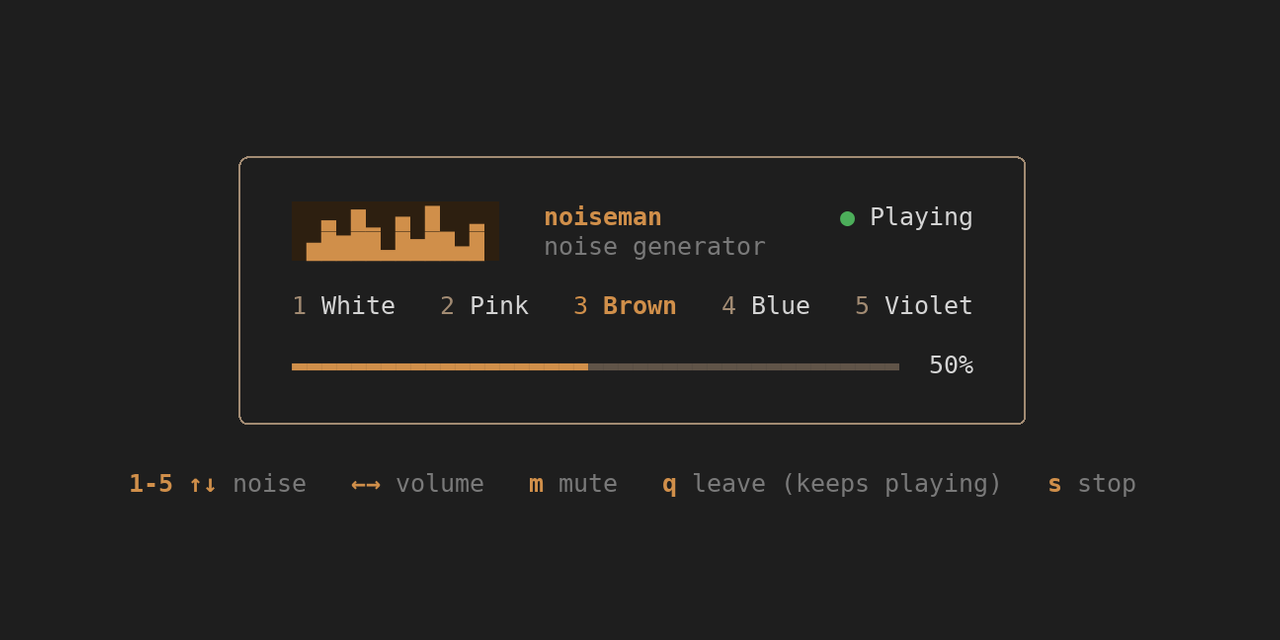
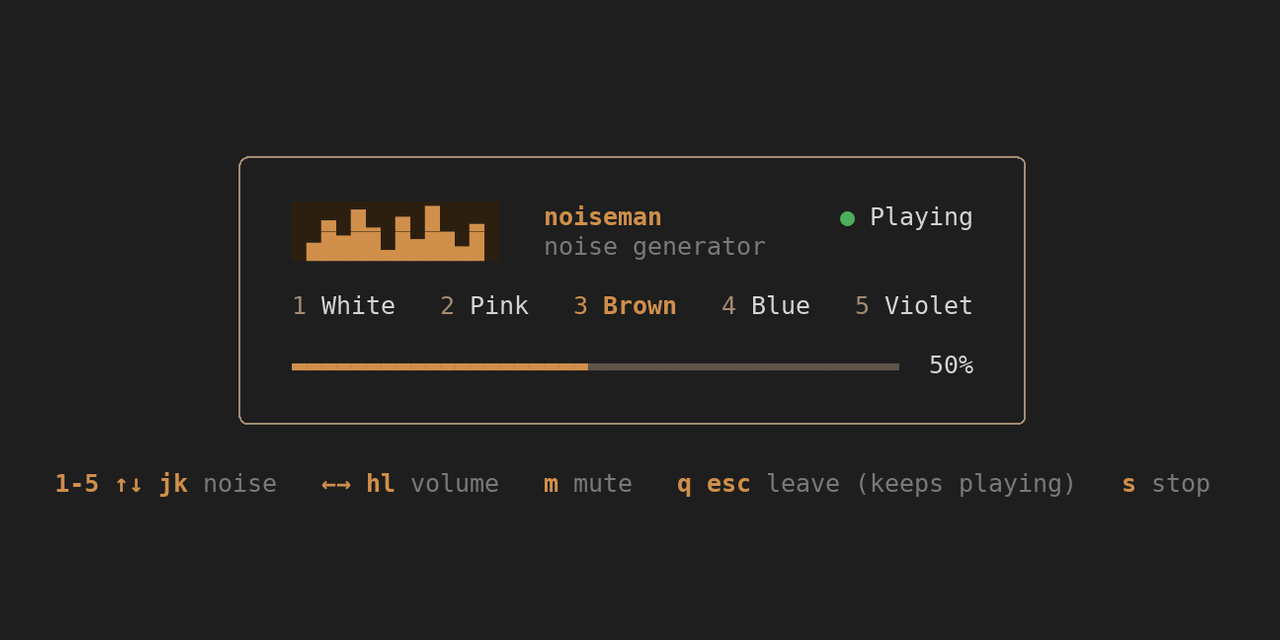
Add vim keys to the TUI, window and web demo
j/k cycle the noise kind like the up/down arrows and h/l change the volume
like left/right, in every UI. Esc leaves like q: the TUI already took both,
and the window now handles q/Esc as its close button (hide to the tray, or
quit without one), plus up/down cycling, which it lacked. Key hints, the
README and the TUI screenshot show the new keys.

Changed region(s): [[0.0312, 0.7188, 0.9375, 0.7812]]

diff --git a/web/site/app.js b/web/site/app.js
@@ -122,10 +122,10 @@ addEventListener("keydown", (e) => {
   const inRange = e.target === $("vol");
   const onPlay = e.target === $("play");
   if (e.key >= "1" && e.key <= "5") setKind(+e.key - 1);
-  else if (e.key === "ArrowUp" && !inRange) setKind(state.kind - 1);
-  else if (e.key === "ArrowDown" && !inRange) setKind(state.kind + 1);
-  else if (e.key === "ArrowLeft" && !inRange) setVol(state.vol - 5);
-  else if (e.key === "ArrowRight" && !inRange) setVol(state.vol + 5);
+  else if (e.key === "k" || (e.key === "ArrowUp" && !inRange)) setKind(state.kind - 1);
+  else if (e.key === "j" || (e.key === "ArrowDown" && !inRange)) setKind(state.kind + 1);
+  else if (e.key === "h" || (e.key === "ArrowLeft" && !inRange)) setVol(state.vol - 5);
+  else if (e.key === "l" || (e.key === "ArrowRight" && !inRange)) setVol(state.vol + 5);
   else if (e.key === "m" || (e.key === " " && !onPlay)) {
     if (!e.repeat) setPlaying(!state.playing);
   }

diff --git a/web/site/index.html b/web/site/index.html
@@ -26,7 +26,7 @@
   <button class="play" id="play" type="button">Play</button>
   <p class="error" id="error" role="alert" hidden></p>
 </main>
-<p class="keys"><span><kbd>1-5</kbd> noise</span> <span><kbd>↑↓</kbd> cycle</span> <span><kbd>←→</kbd> volume</span> <span><kbd>space</kbd> play / pause</span></p>
+<p class="keys"><span><kbd>1-5</kbd> noise</span> <span><kbd>↑↓</kbd> <kbd>jk</kbd> cycle</span> <span><kbd>←→</kbd> <kbd>hl</kbd> volume</span> <span><kbd>space</kbd> play / pause</span></p>
 <p class="about">Rust compiled to a ~6 KB WebAssembly module, running in an AudioWorklet. Nothing is downloaded or
 streamed: the noise is computed on your device, and the audio engine is suspended while paused. <a href="architecture/">How it works</a>.</p>
 </body>

diff --git a/src/frontend/gui/mod.rs b/src/frontend/gui/mod.rs
@@ -191,6 +191,16 @@ impl App {
         el.exit();
     }
 
+    /// The close button, `q` or Esc: hide to the tray, or quit when there is none.
+    fn close(&mut self, el: &ActiveEventLoop) {
+        if self.tray.is_some() {
+            self.hide();
+            self.refresh();
+        } else {
+            self.quit(el);
+        }
+    }
+
     fn click(&mut self, x: i32, y: i32) {
         if let Some(i) = (0..KINDS).find(|&i| btn(i).contains(x, y)) {
             self.send(Command::Kind(Kind::ALL[i]));
@@ -305,11 +315,7 @@ impl ApplicationHandler<Event> for App {
 
     fn window_event(&mut self, el: &ActiveEventLoop, _: WindowId, event: WindowEvent) {
         match event {
-            WindowEvent::CloseRequested if self.tray.is_some() => {
-                self.hide();
-                self.refresh();
-            }
-            WindowEvent::CloseRequested => self.quit(el),
+            WindowEvent::CloseRequested => self.close(el),
             WindowEvent::RedrawRequested => {
                 if let Err(e) = self.draw() {
                     eprintln!("noiseman: redraw failed: {e}");
@@ -336,9 +342,16 @@ impl ApplicationHandler<Event> for App {
                 event: KeyEvent { logical_key, state: ElementState::Pressed, repeat, .. },
                 ..
             } => {
+                let cycle = |step: usize| {
+                    let i = Kind::ALL.iter().position(|&k| k == self.state.kind).unwrap_or(0);
+                    Command::Kind(Kind::ALL[(i + step) % KINDS])
+                };
                 match logical_key.as_ref() {
-                    Key::Named(NamedKey::ArrowLeft) => self.send(Command::VolBy(-5)),
-                    Key::Named(NamedKey::ArrowRight) => self.send(Command::VolBy(5)),
+                    Key::Character("q") | Key::Named(NamedKey::Escape) if !repeat => return self.close(el),
+                    Key::Named(NamedKey::ArrowLeft) | Key::Character("h") => self.send(Command::VolBy(-5)),
+                    Key::Named(NamedKey::ArrowRight) | Key::Character("l") => self.send(Command::VolBy(5)),
+                    Key::Named(NamedKey::ArrowUp) | Key::Character("k") => self.send(cycle(KINDS - 1)),
+                    Key::Named(NamedKey::ArrowDown) | Key::Character("j") => self.send(cycle(1)),
                     Key::Character("m") | Key::Named(NamedKey::Space) if !repeat => self.send(Command::ToggleMute),
                     Key::Character(c) => match c.parse::<usize>() {
                         Ok(n @ 1..=KINDS) => self.send(Command::Kind(Kind::ALL[n - 1])),

diff --git a/src/frontend/tui.rs b/src/frontend/tui.rs
@@ -246,7 +246,7 @@ fn cube(r: u8, g: u8, b: u8) -> Color {
 }
 const LOGO: [&str; 2] = ["  ▃ ▆▁ ▄ ▇  ▂ ", " ▅█▇██▃█▆██▄█ "];
 const KEYS: [(&str, &str); 5] =
-    [("1-5 ↑↓", "noise"), ("←→", "volume"), ("m", "mute"), ("q", "leave (keeps playing)"), ("s", "stop")];
+    [("1-5 ↑↓ jk", "noise"), ("←→ hl", "volume"), ("m", "mute"), ("q esc", "leave (keeps playing)"), ("s", "stop")];
 const KEYS_SHORT: [(&str, &str); 5] = [("1-5", "noise"), ("←→", "vol"), ("m", "mute"), ("q", "leave"), ("s", "stop")];
 
 fn hint_width(keys: &[(&str, &str)], sep: usize) -> u16 {

diff --git a/README.md b/README.md
@@ -48,6 +48,10 @@ noiseman daemon          # run the player in the foreground (--muted to start si
 noiseman --help          # full command reference
 ```
 
+Keys in the terminal UI and the window: `1`-`5` pick a noise, `↑`/`↓` or `k`/`j` cycle it, `←`/`→` or `h`/`l`
+change the volume, `m` or space mutes, `q` or `Esc` leaves (the window hides to the tray, or quits without one), and
+`s` stops the player (terminal UI only). The browser demo takes the same noise, volume and mute keys.
+
 ## Development
 
 Dev workflows go through [`just`](https://github.com/casey/just) (run `just` alone to list all recipes):
